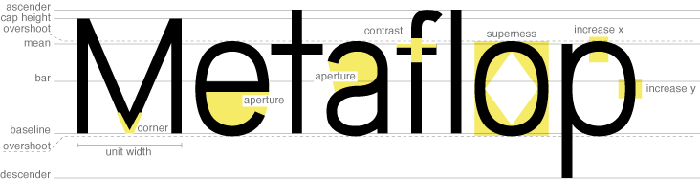
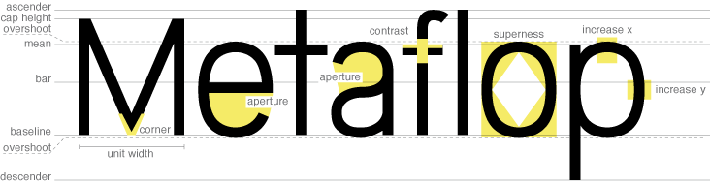
design update: green, standalone boxes

diff --git a/views/screen.scss b/views/screen.scss
@@ -1,13 +1,22 @@
-$live_panel_height: 6em;
+$live_panel_height: 6em; // TODO: remove, h1 is not preview anymore (insert h1 hidden somewhere)
 $input_height: 1.2em;
 $input_color: #ccc;
-$active_color: #ffff66;
-$active-link-color: darken($active_color, 30%);
-$content_width: 1000px;
-$preview-box-width: 350px;
-$preview-box-spacing: 5px;
+$active_color: #60eb00;
+$active_link_color: darken($active_color, 30%);
 
-$preview-box-content-width: $preview-box-width - $preview-box-spacing - 2 * 3px;
+$content_width: 1000px;
+$right_column_width: 710px;
+$border_width: 3px;
+$box_spacing_y: 7px;
+
+$box_spacing_x: 30px;
+$preview_box_width: ($right_column_width - $box_spacing_x) / 2;
+$preview_box_width_full: $right_column_width;
+$preview_box_height: 340px;
+$preview_box_content_width: $preview_box_width - 2 * $border_width;
+$preview_box_content_width_full: $preview_box_width_full - 2 * $border_width;
+
+$left_column_width: $content_width - $right_column_width - $box_spacing_x;
 
 @mixin col {
     float: left;
@@ -15,7 +24,7 @@ $preview-box-content-width: $preview-box-width - $preview-box-spacing - 2 * 3px;
 }
 
 @mixin header-row {
-    height: 185px;
+    margin-bottom: $box_spacing_y;
 }
 
 @mixin box-shadow {
@@ -39,7 +48,7 @@ body {
     padding: 0;
     font-family: helvetica, sans-serif;
     font-size: 0.9em;
-    background: url(/img/bg-gradient.png) repeat-x $active-color 0 0;
+    background: url(/img/bg-gradient.png) repeat-x #fff 0 0;
 }
 
 input {
@@ -49,7 +58,7 @@ input {
     height: $input_height;
     width: 37px;
     padding: 0;
-    margin: 0.2em 0 0 0;
+    margin: 0.3em 0 0 0;
 }
 
 select {
@@ -90,10 +99,10 @@ h1 {
 h2 {
     font-size: 1em;
     font-weight: bold;
-    background-color: $active_color;
-    padding: 0.2em 2em 0.2em 0.5em;
     margin: 0;
+    padding: 0.1em 2em 0 0.5em;
     display: inline-block;
+    background: $active_color;
 }
 
 fieldset {
@@ -110,6 +119,10 @@ legend {
     width: 100%;
     line-height: 1.6em;
     font-weight: bold;
+
+    &.first {
+        border-top: none;
+    }
 }
 
 ul {
@@ -130,7 +143,7 @@ a, span.action {
     cursor: pointer;
 
     &:hover {
-        color: $active-link-color;
+        color: $active_link_color;
     }
 }
 
@@ -148,12 +161,16 @@ a, span.action {
     }
 }
 
+.box-content {
+    padding: 0 0.5em;
+    background: #fff;
+}
+
 #main {
     margin: 20px auto 0 auto;
     position: relative;
     width: $content_width;
     overflow: hidden;
-    background: #fff;
     padding: 10px 10px 0 10px;
 }
 
@@ -181,24 +198,28 @@ a, span.action {
 #col1 {
     @include col;
 
-    width: 28%;
-    margin-right: 1%;
+    width: $left_column_width;
+    margin-right: $box_spacing_x;
 }
 
 #col2 {
     @include col;
 
-    width: 71%;
+    width: 710px;
 }
 
 #menu {
     @include header-row;
 
+    .box-content {
+        height: inherit;
+    }
+
     .action {
         color: lighten(#000, 80%);
 
         &:hover {
-            color: $active-link-color;
+            color: $active_link_color;
         }
 
         &.active {
@@ -209,6 +230,8 @@ a, span.action {
 
 #info-panel {
     @include header-row;
+    margin-top: 1.45em;
+    height: 182px;
 }
 
 #parameter-panel {
@@ -224,7 +247,7 @@ a, span.action {
         float: right;
         width: 30%;
         height: 1.6em;
-        margin-right: 1.7em;
+        margin-right: 1.2em;
         text-align: center;
         position: relative;
 
@@ -244,45 +267,45 @@ a, span.action {
             z-index: 3;
 
             &.add1 {
-                right: 5px;
-                background-position: -21px -2px;
+                right: 0;
+                background-position: -21px -1px;
                 border-top: 1px solid $input-color;
                 border-bottom: 1px solid $input-color;
                 &:hover {
-                    background-position: -21px -20px;
+                    background-position: -21px -19px;
                 }
             }
 
             &.add10 {
-                right: -15px;
-                background-position: -1px -2px;
+                right: -20px;
+                background-position: -1px -1px;
                 border-top: 1px solid $input-color;
                 border-bottom: 1px solid $input-color;
                 border-right: 1px solid $input-color;
                 &:hover {
-                    background-position: -1px -20px;
+                    background-position: -1px -19px;
                 }
             }
 
             &.sub1 {
-                left: 5px;
-                background-position: -38px -2px;
+                left: -1px;
+                background-position: -38px -1px;
                 border-top: 1px solid $input-color;
                 border-bottom: 1px solid $input-color;
                 &:hover {
-                    background-position: -38px -20px;
+                    background-position: -38px -19px;
                 }
             }
 
             &.sub10 {
-                left: -15px;
-                background-position: -56px -2px;
+                left: -21px;
+                background-position: -56px -1px;
                 border-top: 1px solid $input-color;
                 border-bottom: 1px solid $input-color;
                 border-left: 1px solid $input-color;
                 z-index: 4;
                 &:hover {
-                    background-position: -56px -20px;
+                    background-position: -56px -19px;
                 }
             }
         }
@@ -298,7 +321,7 @@ a, span.action {
     .parameter-panel-mode-toggle {
         position: absolute;
         right: 0;
-        top: 0.4em;
+        top: 0.2em;
 
         .action.active {
             font-weight: bold;
@@ -309,25 +332,24 @@ a, span.action {
 .preview-box,
 .preview-box-fullwidth {
     float: left;
-    width: $preview-box-width;
-    margin: 0 0 0.1em 0;
+    width: $preview_box_width;
+    margin: 0 0 $box_spacing_y 0;
 
     h2 {
-        background: none;
-        padding: 0;
+        background: #fff;
         margin: 0;
     }
 
     .preview-box-content {
-        margin: 0 $preview-box-spacing $preview-box-spacing 0;
-        border: 3px solid lighten($active_color, 20%);
-        width: $preview-box-content-width;
-        height: $preview-box-content-width;
+        border: 3px solid #fff;
+        width: $preview_box_content_width;
+        height: $preview_box_height;
         overflow: hidden;
         text-align: center;
         position: relative;
-        line-height: $preview-box-content-width;
+        line-height: $preview_box_height;
         font-size: 0.67em;
+        background: #fff;
 
         * {
             line-height: 1.25em;
@@ -356,16 +378,26 @@ a, span.action {
         }
     }
 
-    &.active .preview-box-content {
-        border: 3px solid $active_color;
+    &.active {
+        h2 {
+            background: $active_color;
+        }
+
+        .preview-box-content {
+            border: 3px solid $active_color;
+        }
     }
 }
 
+#preview-chart {
+    margin-left: $box_spacing_x;
+}
+
 .preview-box-fullwidth {
-    width: $preview-box-width * 2 - $preview-box-spacing;
+    width: $preview_box_width_full;
 
     .preview-box-content {
-        width: $preview-box-width * 2 - $preview-box-spacing;
+        width: $preview_box_content_width_full;
 
         .preview-image {
             vertical-align: top;
@@ -380,10 +412,6 @@ a, span.action {
 
 .adjuster input.active {
     background-color: $active_color;
-}
-
-#preview-panel {
-    margin-left: 10px;
 }
 
 .preview-loading {
@@ -403,6 +431,10 @@ a, span.action {
     border-bottom: 1px solid #ccc;
     position: relative;
 
+    &.last {
+        border-bottom: none;
+    }
+
     &:hover {
         background: #eee;
     }
@@ -412,7 +444,7 @@ div.char-chooser {
     position: absolute;
     bottom: 0;
     left: 0;
-    width: $preview-box-content-width;
+    width: $preview_box_content_width;
     height: 1.3em;
     overflow: hidden;
 
@@ -425,7 +457,7 @@ div.char-chooser {
 
     li {
         float: left;
-        width: $preview-box-content-width;
+        width: $preview_box_content_width;
 
         a {
             font-size: 1.15em;

diff --git a/views/index.rb b/views/index.rb
@@ -9,7 +9,8 @@ class App
                         :items => [
                             { :title => 'box height', :html => '<div class="static-value">100%</div>' },
                             { :title => 'unit width', :default => defaults[:u], :range => ranges[:u] }
-                        ]
+                        ],
+                        :css_class => "first"
                     },
                     {
                         :title => "Proportion",
@@ -49,7 +50,11 @@ class App
                         x[:tabindex] = i
                         i = i + 1
                     end
+
+                    # add css class to last item
+                    group[:items][-1][:css_class] = "last"
                 end
+
             end
 
             # single preview char chooser
